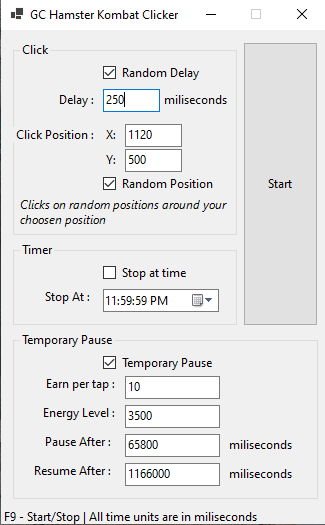
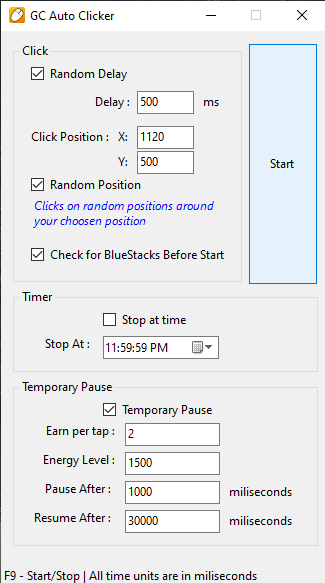
Renamed to GC-Auto-Clicker

diff --git a/MainForm.Designer.cs b/MainForm.Designer.cs
@@ -409,7 +409,7 @@
             MaximizeBox = false;
             Name = "MainForm";
             StartPosition = FormStartPosition.CenterScreen;
-            Text = "GC Game Clicker";
+            Text = "GC Auto Clicker";
             FormClosing += MainForm_FormClosing;
             gbTimer.ResumeLayout(false);
             gbTimer.PerformLayout();
